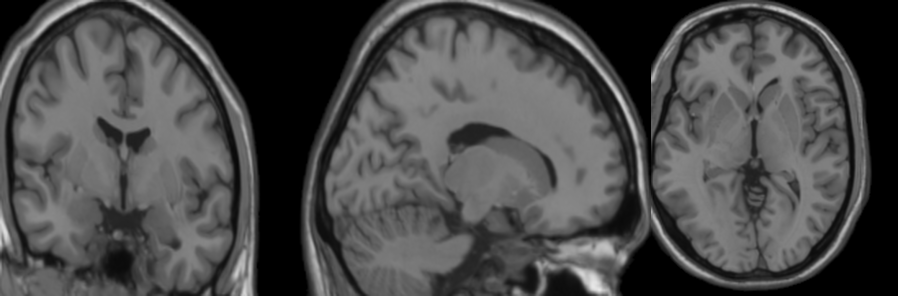
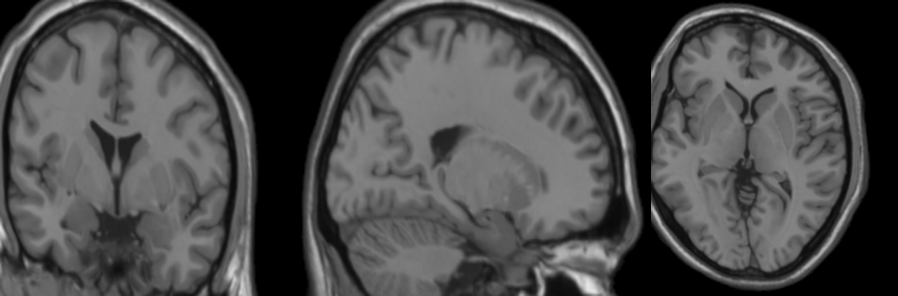
Fixed bias and warp

diff --git a/mriaug/core.py b/mriaug/core.py
@@ -8,7 +8,7 @@ def flip3d(x: Tensor, dim: int = 0) -> Tensor:
     return x.flip(-3 + dim)
 
 
-def dihedral3d(x, k):
+def dihedral3d(x: Tensor, k: int) -> Tensor:
     if (k % 24) < 8:
         return rot90(x if (k % 24) < 4 else rot90(x, 2, (-3, -1)), k % 4, (-2, -1))
     elif (k % 24) < 16:
@@ -55,7 +55,7 @@ def affine3d(x: Tensor, zoom: Tensor = None, rotate: Tensor = None, translate: T
     return apply_affine(x, affine, size, mode, upsample, pad_mode, align_corners)
 
 
-def warp3d(x: Tensor, magnitude: (int, float, Tensor) = .1, k_size: tuple = (2, 2, 2), k: Tensor = None,
+def warp3d(x: Tensor, magnitude: (int, float, Tensor) = .02, k_size: tuple = (2, 2, 2), k: Tensor = None,
            size: tuple = None, mode: str = 'bilinear', upsample: (int, float) = 1., pad_mode: str = 'zeros') -> Tensor:
     size = x.shape[-3:] if size is None else size
     assert len(size) == 3, 'Size must have 3(=spatial) dimensions'
@@ -65,7 +65,7 @@ def warp3d(x: Tensor, magnitude: (int, float, Tensor) = .1, k_size: tuple = (2, 
 
 
 def affinewarp3d(x: Tensor, zoom: Tensor = None, rotate: Tensor = None, translate: Tensor = None, shear: Tensor = None,
-                 magnitude: (int, float, Tensor) = .1, k_size: tuple = (2, 2, 2), k: Tensor = None, size: tuple = None,
+                 magnitude: (int, float, Tensor) = .02, k_size: tuple = (2, 2, 2), k: Tensor = None, size: tuple = None,
                  mode: str = 'bilinear', upsample: (int, float) = 1., pad_mode: str = 'zeros') -> Tensor:
     size = x.shape[-3:] if size is None else size
     grid_size = [int(upsample * s) for s in size] if upsample > 1 and mode != 'nearest' else size
@@ -76,7 +76,7 @@ def affinewarp3d(x: Tensor, zoom: Tensor = None, rotate: Tensor = None, translat
     return sample(x, grid, size, mode, pad_mode, align_corners=True)
 
 
-def bias_field3d(x: Tensor, intensity: (int, float, Tensor) = 1, k_size: tuple = (2, 2, 2), k: Tensor = None) -> Tensor:
+def bias_field3d(x: Tensor, intensity: (int, float, Tensor) = .2, k_size: tuple = (2, 2, 2), k: Tensor = None) -> Tensor:
     bias = get_bias_field(intensity, k_size=k_size, k=k, size=x.shape, device=x.device).to(x.dtype)
     return x * bias
 

diff --git a/mriaug/utils.py b/mriaug/utils.py
@@ -81,11 +81,13 @@ def sample(x: Tensor, grid: Tensor, size: tuple = None, mode: str = 'bilinear',
         return grid_sample(x, grid, **kwargs)
 
 
-def get_warp_grid(magnitude: (float, Tensor) = .1, k_size: tuple = (2, 2, 2), k: Tensor = None,
-                  size: tuple = None, device=None) -> Tensor:
+def get_warp_grid(magnitude: (float, Tensor) = .02, k_size: tuple = (2, 2, 2),
+                  k: Tensor = None, size: tuple = None, device=None) -> Tensor:
     grid = get_identity_grid(size, device)
-    k = randn((size[0], 3, *k_size), device=device) if k is None else k
-    disp = fft.rfftn(to_ndim(magnitude, k.ndim) * k, s=size[-3:])
+    if k is None:
+        k = randn((size[0], 3, *k_size), device=device)
+        k[:, :, 0, 0, 0] = 0
+    disp = fft.fftn(to_ndim(magnitude, k.ndim) * k, s=size[-3:]).real
     return grid + disp.permute(0, 2, 3, 4, 1)
 
 
@@ -94,10 +96,12 @@ def get_identity_grid(size: tuple, device=None) -> Tensor:
     return affine_grid(affine, [size[0], 3, *size[-3:]], align_corners=True)
 
 
-def get_bias_field(intensity: (float, Tensor) = 1., k_size: tuple = (2, 2, 2),
+def get_bias_field(intensity: (float, Tensor) = .2, k_size: tuple = (2, 2, 2),
                    k: Tensor = None, size: tuple = None, device=None) -> Tensor:
-    k = randn((*size[:2], *k_size), device=device) if k is None else k
-    bias = fft.rfftn(to_ndim(intensity, k.ndim) * k, s=size[-3:])
+    if k is None:
+        k = randn((*size[:2], *k_size), device=device)
+        k[:, :, 0, 0, 0] = 0
+    bias = fft.fftn(to_ndim(intensity, k.ndim) * k, s=size[-3:]).real
     return 1 + bias
 
 

diff --git a/runall.py b/runall.py
@@ -32,9 +32,9 @@ if __name__ == '__main__':
     save_image(mriaug.translate3d(x, translate), 'data/translate.png')
     save_image(mriaug.shear3d(x, shear), 'data/shear.png')
     save_image(mriaug.affine3d(x, translate, rotate, zoom, shear), 'data/affine.png')
-    save_image(mriaug.warp3d(x, magnitude=.1), 'data/warp.png')
-    save_image(mriaug.affinewarp3d(x, zoom, rotate, translate, shear, magnitude=.1), 'data/affinewarp.png')
-    save_image(mriaug.bias_field3d(x, intensity=2.), 'data/bias_field.png')
+    save_image(mriaug.warp3d(x, magnitude=.01), 'data/warp.png')
+    save_image(mriaug.affinewarp3d(x, zoom, rotate, translate, shear, magnitude=.01), 'data/affinewarp.png')
+    save_image(mriaug.bias_field3d(x, intensity=.2), 'data/bias_field.png')
     save_image(mriaug.contrast(x, lighting=.5), 'data/contrast.png')
     save_image(mriaug.noise3d(x, intensity=.05), 'data/noise.png')
     save_image(mriaug.chi_noise3d(x, intensity=.05, dof=3), 'data/chi_noise.png')

diff --git a/speed.py b/speed.py
@@ -26,8 +26,8 @@ mriaug_setups = {op: '' for op in OPS}
 mriaug_run_args = {op: '' for op in OPS}
 mriaug_setups['affine'] = f'zoom, rotate, translate = torch.tensor([{zoom}]), torch.tensor([{rotate}]), torch.tensor([{translate}])'
 mriaug_run_args['affine'] = ', zoom=zoom, rotate=rotate, translate=translate'
-mriaug_run_args['warp'] = ', magnitude=.1'
-mriaug_run_args['bias_field'] = ', intensity=2.'
+mriaug_run_args['warp'] = ', magnitude=.01'
+mriaug_run_args['bias_field'] = ', intensity=.2'
 mriaug_run_args['noise'] = ', intensity=.05'
 mriaug_run_args['downsample'] = ', scale=.25, dim=2'
 mriaug_run_args['ghosting'] = ', intensity=.5'

diff --git a/README.md b/README.md
@@ -27,7 +27,7 @@ print(x_flipped[..., 0, 0])  # tensor([[[0.7619, 0.5079, 0.2540, 0.0000]]])
 Explore the [gallery](https://github.com/codingfisch/mriaug?tab=readme-ov-file#gallery-) to understand the usage and effect of all ~20 augmentations!
 
 ## Speed 💨
-The popular libraries `torchio` and [`MONAI`](https://github.com/Project-MONAI/MONAI) (utilizes `torchio`) use [`ITK`](https://github.com/SimpleITK/SimpleITK) resulting in these operations
+The popular libraries `torchio` and [`MONAI`](https://github.com/Project-MONAI/MONAI) (utilizes `torchio`) often use [`ITK`](https://github.com/SimpleITK/SimpleITK) like this
 
 *PyTorch tensor → NumPy array → NiBabel image → ITK operation (C/C++) → NumPy array → PyTorch tensor*
 
@@ -37,21 +37,21 @@ Instead, `mriaug` directly uses PyTorch—runs C/C++ on CPU and CUDA on GPU—re
 - **~50x fewer lines of code**: `torchio`: ~10,000 LOC, `mriaug`: ~200 LOC 🤓
 - **~50x speedup** on GPU 🔥 based on the table below (run [`speed.py`](https://github.com/codingfisch/mriaug/blob/main/runall.py) to reproduce) 💨
 
-*Runtimes on AMD Ryzen 9 5950X CPU and NVIDIA GeForce RTX 3090 GPU*
+<details>
+  <summary><b>Click here</b>, to see <b>runtimes</b> in seconds (on AMD 5950X CPU and NVIDIA RTX 3090 GPU)</summary>
 
-### Runtime in seconds
-
-| Transformation | `torchio` | `mriaug` on CPU | `mriaug` on GPU | Speedup vs. `torchio` |
-|----------------|-----------|-----------------|-----------------|-----------------------|
-| Flip           | 0.014     | 0.011           | 0.002           | **7.5x**              |
-| Affine         | 0.296     | 0.601           | 0.011           | **27.8x**             |
-| Warp           | 0.942     | 0.825           | 0.076           | **12.3x**             |
-| Bias Field     | 3.339     | 0.196           | 0.043           | **77.4x**             |
-| Noise          | 0.115     | 0.104           | 0.001           | **219.7x**            |
-| Downsample     | 0.303     | 0.011           | 0.001           | **591.0x**            |
-| Ghosting       | 0.231     | 0.173           | 0.003           | **73.3x**             |
-| Spike          | 0.291     | 0.173           | 0.003           | **96.9x**             |
-| Motion         | 0.682     | 0.531           | 0.009           | **76.9x**             |
+| Transformation | `torchio` | `mriaug` on CPU | `mriaug` on GPU | Speedup vs. torchio |
+|----------------|-----------|-----------------|-----------------|---------------------|
+| Flip           | 0.014     | 0.012           | 0.002           | **7.5x**            |
+| Affine         | 0.297     | 0.608           | 0.011           | **27.9x**           |
+| Warp           | 0.951     | 0.850           | 0.009           | **103.3x**          |
+| Bias Field     | 3.258     | 0.081           | 0.002           | **1813.0x**         |
+| Noise          | 0.117     | 0.105           | 0.001           | **230.4x**          |
+| Downsample     | 0.282     | 0.013           | 0.000           | **592.3x**          |
+| Ghosting       | 0.241     | 0.170           | 0.003           | **78.3x**           |
+| Spike          | 0.265     | 0.172           | 0.003           | **88.8x**           |
+| Motion         | 0.696     | 0.540           | 0.009           | **78.6x**           |
+</details>
 
 ## Gallery 🧠
 
@@ -95,13 +95,13 @@ and **run all augmentations** (see [`runall.py`](https://github.com/codingfisch/
 ### [`affine3d(x, zoom, rotate, translate, shear)`](https://github.com/codingfisch/mriaug_beta/blob/main/mriaug/core.py#L51)
 ![](data/affine.png)
 
-### [`warp3d(x, magnitude=.1)`](https://github.com/codingfisch/mriaug_beta/blob/main/mriaug/core.py#L58)
+### [`warp3d(x, magnitude=.01)`](https://github.com/codingfisch/mriaug_beta/blob/main/mriaug/core.py#L58)
 ![](data/warp.png)
 
-### [`affinewarp3d(x, zoom, rotate, translate, shear, magnitude=.1)`](https://github.com/codingfisch/mriaug_beta/blob/main/mriaug/core.py#L67)
+### [`affinewarp3d(x, zoom, rotate, translate, shear, magnitude=.01)`](https://github.com/codingfisch/mriaug_beta/blob/main/mriaug/core.py#L67)
 ![](data/affinewarp.png)
 
-### [`bias_field3d(x, intensity=2.)`](https://github.com/codingfisch/mriaug_beta/blob/main/mriaug/core.py#L79)
+### [`bias_field3d(x, intensity=.2)`](https://github.com/codingfisch/mriaug_beta/blob/main/mriaug/core.py#L79)
 ![](data/bias_field.png)
 
 ### [`contrast(x, lighting=.5)`](https://github.com/codingfisch/mriaug_beta/blob/main/mriaug/core.py#L84)
